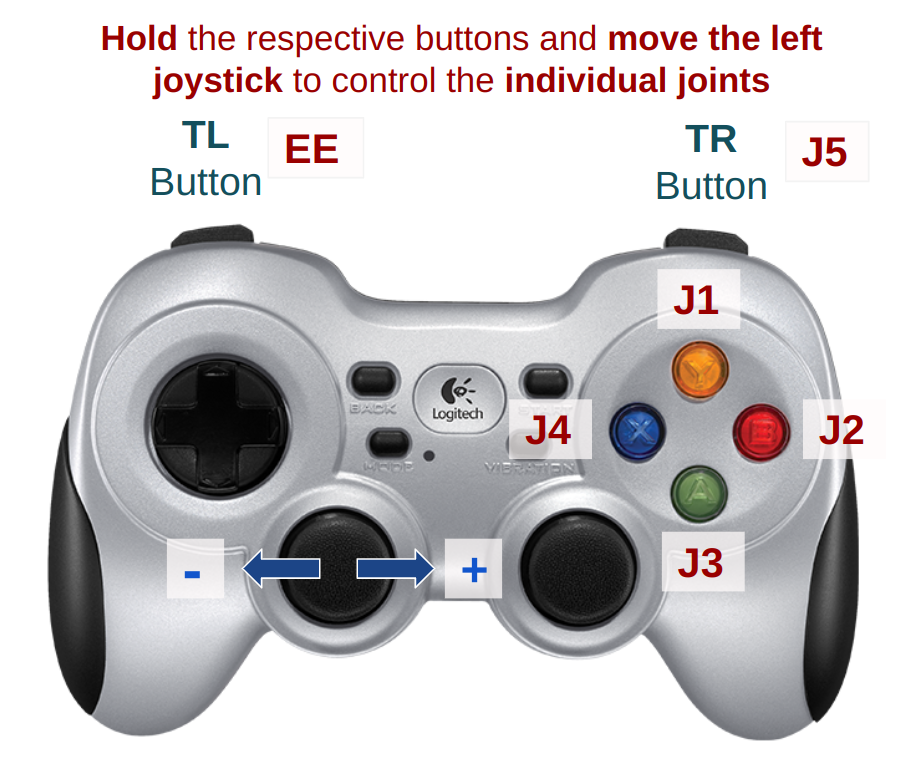
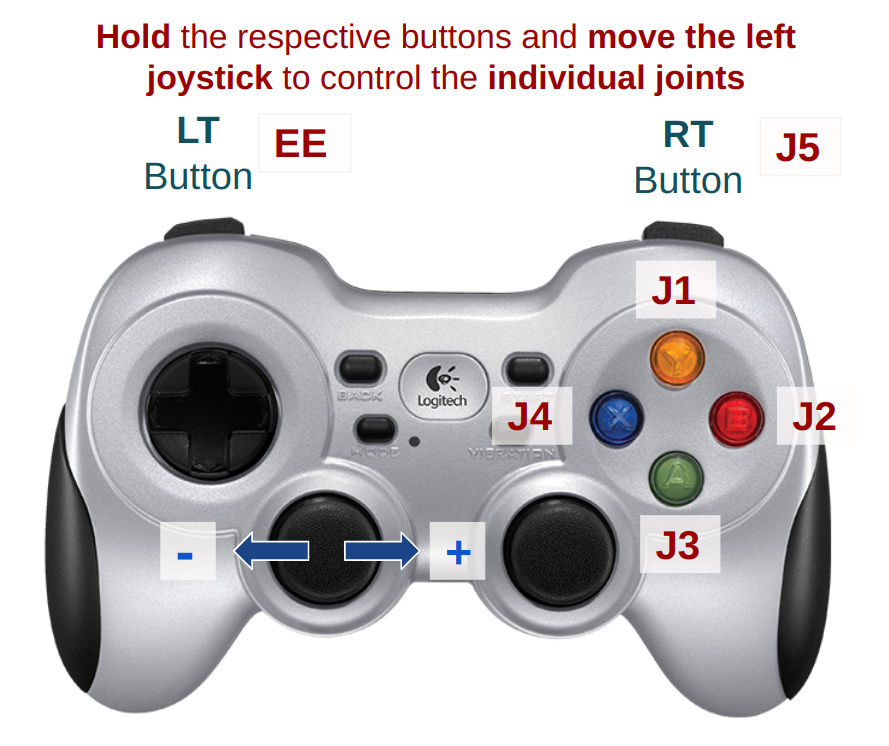
update gamepad mapping for Logitech F310

diff --git a/scripts/gamepad_control.py b/scripts/gamepad_control.py
@@ -17,7 +17,9 @@ class GamepadControl:
         """Initialize the gamepad and internal state variables."""
         self.initialize_gamepad()
         self.gamepad_cmds_prev = GamepadCmds()
-        self.abs_x = self.abs_y = self.abs_z = self.abs_rz = 128  # Default centered values
+        # Default centered values
+        self.abs_x = 128  
+        self.abs_y = self.abs_z = -128 
 
         # Control flags
         self.MOBILE_BASE_FLAG = False
@@ -61,22 +63,24 @@ class GamepadControl:
             if event.ev_type != 'Sync':
                 self._handle_event(event)
 
+                # print(f'type: {event.code}, state: {event.state}')
+
         if self.MOBILE_BASE_FLAG:
-            gamepad_cmds.base_vx = self.map_value(self.abs_x, 0.5, -0.5)
-            gamepad_cmds.base_vy = self.map_value(self.abs_y, 0.5, -0.5)
-            gamepad_cmds.base_w = self.map_value(self.abs_z, -0.5, 0.5)
+            gamepad_cmds.base_vx = self.map_value(self.abs_x, [-32767, 32767], [-0.5, 0.5])
+            gamepad_cmds.base_vy = self.map_value(self.abs_y, [32767, -32767], [-0.5, 0.5])
+            gamepad_cmds.base_w = self.map_value(self.abs_z,  [32767, -32767], [-0.5, 0.5])
 
         if self.ARM_FLAG:
-            gamepad_cmds.arm_vx = self.map_value(self.abs_x, -0.1, 0.1)
-            gamepad_cmds.arm_vy = self.map_value(self.abs_y, 0.1, -0.1)
-            gamepad_cmds.arm_vz = self.map_value(self.abs_rz, 0.1, -0.1)
+            gamepad_cmds.arm_vx = self.map_value(self.abs_x, [-32767, 32767], [-0.1, 0.1])
+            gamepad_cmds.arm_vy = self.map_value(self.abs_y, [32767, -32767], [-0.1, 0.1])
+            gamepad_cmds.arm_vz = self.map_value(self.abs_z, [32767, -32767], [-0.1, 0.1])
 
-        gamepad_cmds.arm_j1 = self.map_value(self.abs_x, -0.1, 0.1) if self.ARM_J1_FLAG else 0.0
-        gamepad_cmds.arm_j2 = self.map_value(self.abs_x, -0.1, 0.1) if self.ARM_J2_FLAG else 0.0
-        gamepad_cmds.arm_j3 = self.map_value(self.abs_x, -0.1, 0.1) if self.ARM_J3_FLAG else 0.0
-        gamepad_cmds.arm_j4 = self.map_value(self.abs_x, -0.1, 0.1) if self.ARM_J4_FLAG else 0.0
-        gamepad_cmds.arm_j5 = self.map_value(self.abs_x, -0.1, 0.1) if self.ARM_J5_FLAG else 0.0
-        gamepad_cmds.arm_ee = self.map_value(self.abs_x, -0.1, 0.1) if self.ARM_EE_FLAG else 0.0
+        gamepad_cmds.arm_j1 = self.map_value(self.abs_x, [-32767, 32767], [-0.1, 0.1]) if self.ARM_J1_FLAG else 0.0
+        gamepad_cmds.arm_j2 = self.map_value(self.abs_x, [-32767, 32767], [-0.1, 0.1]) if self.ARM_J2_FLAG else 0.0
+        gamepad_cmds.arm_j3 = self.map_value(self.abs_x, [-32767, 32767], [-0.1, 0.1]) if self.ARM_J3_FLAG else 0.0
+        gamepad_cmds.arm_j4 = self.map_value(self.abs_x, [-32767, 32767], [-0.1, 0.1]) if self.ARM_J4_FLAG else 0.0
+        gamepad_cmds.arm_j5 = self.map_value(self.abs_x, [-32767, 32767], [-0.1, 0.1]) if self.ARM_J5_FLAG else 0.0
+        gamepad_cmds.arm_ee = self.map_value(self.abs_x, [-32767, 32767], [-0.1, 0.1]) if self.ARM_EE_FLAG else 0.0
         gamepad_cmds.arm_home = int(self.ARM_HOME)
 
         self.gamepad_cmds_prev = gamepad_cmds
@@ -87,34 +91,33 @@ class GamepadControl:
         code_map = {
             'ABS_X': ('abs_x', event.state),
             'ABS_Y': ('abs_y', event.state),
-            'ABS_Z': ('abs_z', event.state),
-            'ABS_RZ': ('abs_rz', event.state),
-            'BTN_WEST': ('MOBILE_BASE_FLAG', bool(event.state)),
-            'BTN_Z': ('ARM_FLAG', bool(event.state)),
-            'BTN_NORTH': ('ARM_J1_FLAG', bool(event.state)),
-            'BTN_C': ('ARM_J2_FLAG', bool(event.state)),
-            'BTN_EAST': ('ARM_J3_FLAG', bool(event.state)),
-            'BTN_SOUTH': ('ARM_J4_FLAG', bool(event.state)),
-            'BTN_TR': ('ARM_J5_FLAG', bool(event.state)),
-            'BTN_TL': ('ARM_EE_FLAG', bool(event.state)),
-            'BTN_TL2': ('ARM_HOME', bool(event.state))
+            'ABS_RY': ('abs_z', event.state),
+            'BTN_TL': ('MOBILE_BASE_FLAG', bool(event.state)),
+            'BTN_TR': ('ARM_FLAG', bool(event.state)),
+            'BTN_WEST': ('ARM_J1_FLAG', bool(event.state)),
+            'BTN_EAST': ('ARM_J2_FLAG', bool(event.state)),
+            'BTN_SOUTH': ('ARM_J3_FLAG', bool(event.state)),
+            'BTN_NORTH': ('ARM_J4_FLAG', bool(event.state)),
+            'ABS_RZ': ('ARM_J5_FLAG', bool(event.state)),
+            'ABS_Z': ('ARM_EE_FLAG', bool(event.state)),
+            'BTN_SELECT': ('ARM_HOME', bool(event.state))
         }
 
         if event.code in code_map:
             setattr(self, code_map[event.code][0], code_map[event.code][1])
 
     @staticmethod
-    def map_value(x: float, out_min: float, out_max: float) -> float:
+    def map_value(x: float, in_range: list, out_range: list) -> float:
         """Maps an input value from hardware range (0-255) to a desired output range.
 
         Args:
             x (float): Input value (0 to 255).
-            out_min (float): Minimum output range.
-            out_max (float): Maximum output range.
+            in_range (list): [in_min, in_max]
+            out_range (list): [out_min, out_max]
 
         Returns:
             float: Mapped value.
         """
-        joint_min, joint_max = 0, 255
-        val = (x - joint_min) * (out_max - out_min) / (joint_max - joint_min) + out_min
+        # val = (x - joint_min) * (out_max - out_min) / (joint_max - joint_min) + out_min
+        val = (x - in_range[0]) * (out_range[1] - out_range[0]) / (in_range[1] - in_range[0]) + out_range[0]
         return val if abs(val) > 0.005 else 0.0

diff --git a/scripts/test.py b/scripts/test.py
@@ -1,4 +1,4 @@
-from hiwonder2 import HiwonderRobot
+from hiwonder import HiwonderRobot
 import time
 import traceback
 
@@ -24,7 +24,7 @@ def main():
             if case == 0:
                 try:
                     joint_id = int(input("Enter joint ID (1-6): ").strip())
-                    print(f"Position of joint {joint_id}: {robot.get_joint_value(joint_id)}")
+                    print(f"Position of joint {joint_id}: {robot.joint_values[joint_id]}")
                 except ValueError:
                     print("Invalid input. Please enter a valid joint ID.")
 
@@ -40,7 +40,7 @@ def main():
                     joint_id, theta = [int(s) for s in input("Enter joint ID and angle (e.g., 2,30): ").split(",")]
                     robot.set_joint_value(joint_id, theta)
                     time.sleep(1.0)
-                    print(f"Position of joint {joint_id}: {robot.get_joint_value(joint_id)}")
+                    print(f"Position of joint {joint_id}: {robot.joint_values[joint_id]}")
                 except ValueError:
                     print("Invalid input. Please enter valid numbers.")
 
@@ -49,7 +49,7 @@ def main():
                     thetalist = [int(s) for s in input("Enter joint angles (e.g., 2,30,20,20,30,10): ").split(",")]
                     robot.set_joint_values(thetalist)
                     time.sleep(0.5)
-                    print(f"Joint values: {robot.get_joint_values()}")
+                    print(f"Joint values: {robot.joint_values}")
                 except ValueError:
                     print("Invalid input. Please enter valid numbers.")
 
